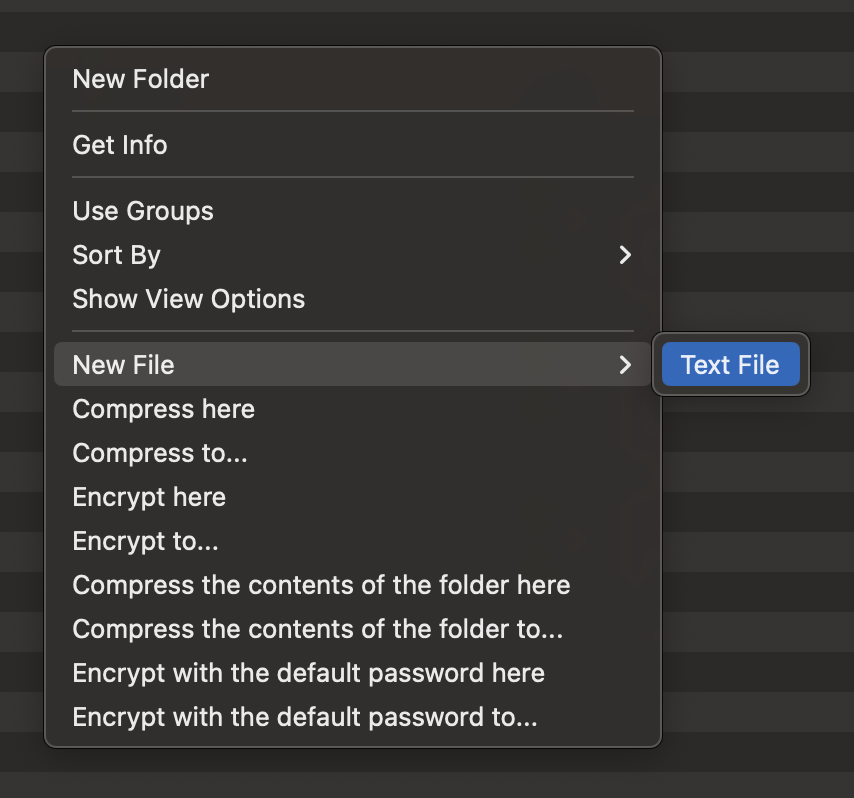
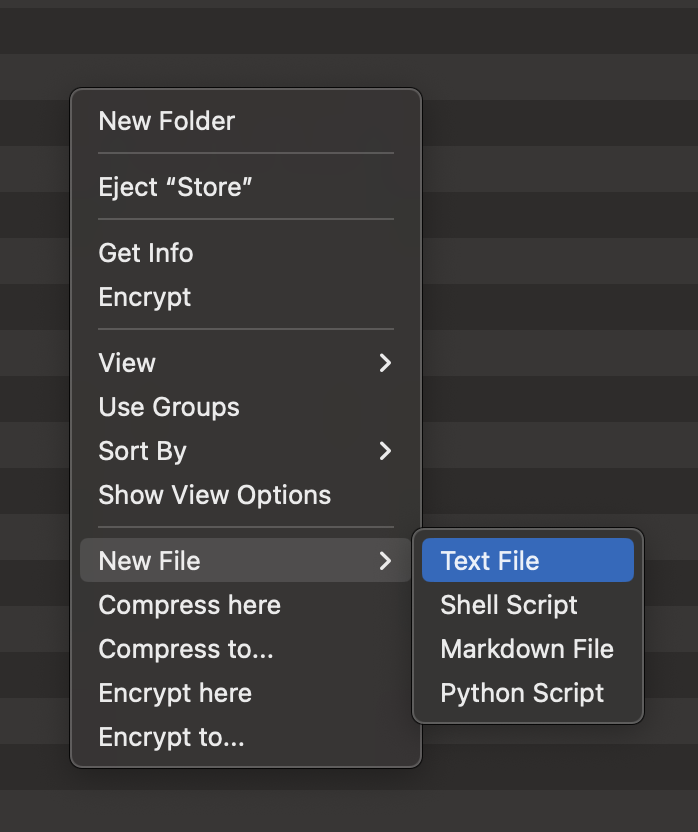
Update README.md

diff --git a/README.md b/README.md
@@ -2,11 +2,11 @@
 
 A lightweight plugin to add right-click file creation in Finder.
 
-学习下 Finder Sync Extension 的工作原理，目前只实现Finder右键-新建文本文件，其它还在规划中。
+学习下 Finder Sync Extension 的工作原理，Finder右键功能扩展，更多功能还在规划中。
 
 ## Features
-Create new text files  
-More features under planning 
+Expanded file type support in "New File" creation
+More features under planning
 
 
 ### Screenshots
